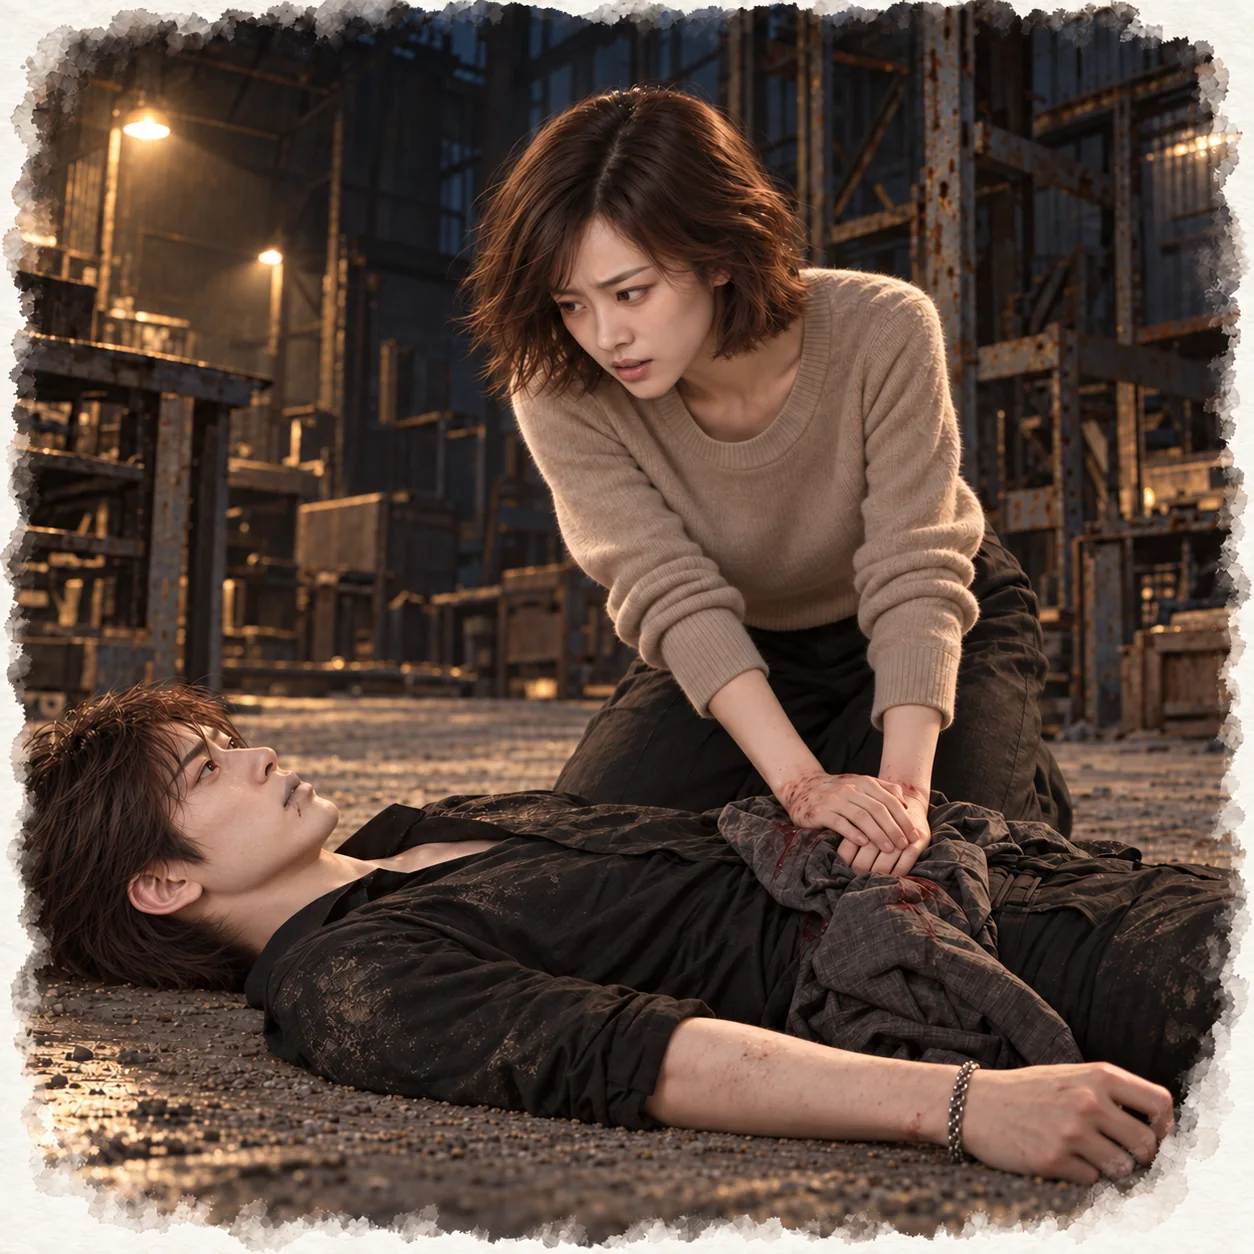
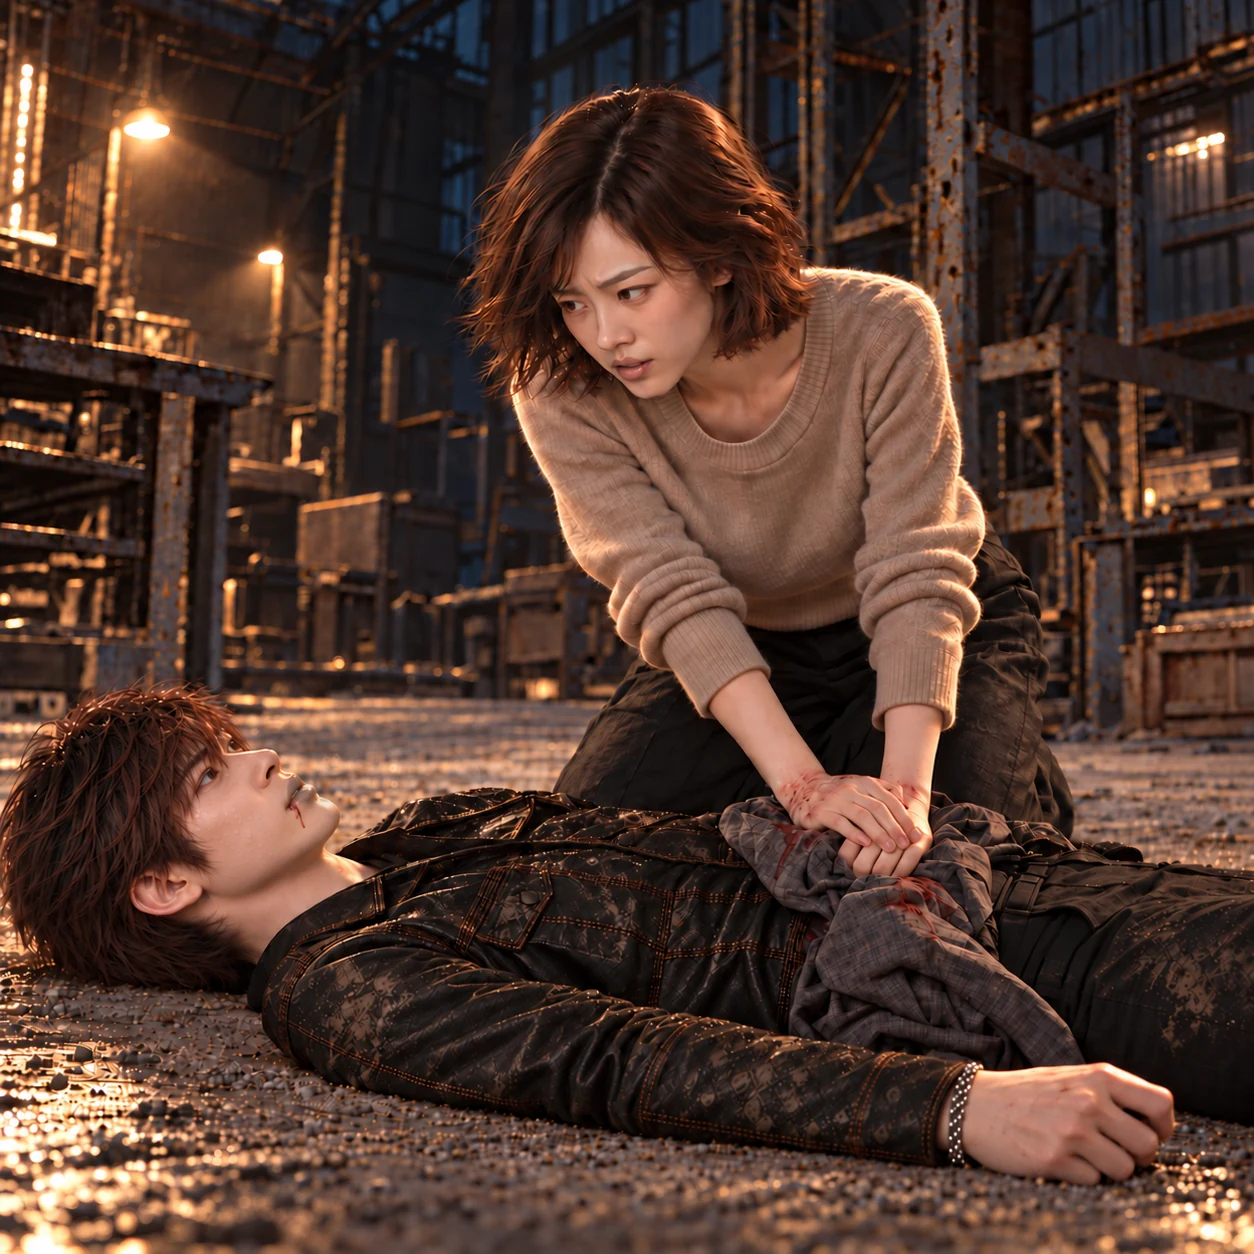
更換《沒有招牌的酒吧》第一部第十章溫寧配圖，江澈唇色調淡
Claude-Session: https://claude.ai/code/session_01GBWYe2ZCjBEsB5sU4wpFsc

diff --git a/novels/no-signboard-bar/chapter-10.html b/novels/no-signboard-bar/chapter-10.html
@@ -1,5 +1,5 @@
 <!doctype html><html lang="zh-Hant"><head><meta charset="utf-8"><meta name="viewport" content="width=device-width,initial-scale=1"><title>第十章 別自己去送死｜沒有招牌的酒吧｜Beauty</title><meta name="description" content="沒有招牌的酒吧，第一部第十章〈別自己去送死〉。溫寧、陸曜、林棠、江澈，四人第一人稱輪流敘事。"><link rel="stylesheet" href="../../assets/forest/site.css"><link rel="stylesheet" href="../../assets/forest/reader.css"><link rel="stylesheet" href="../../assets/forest/novel.css?v=reader-font1"><link rel="stylesheet" href="../../assets/forest/reader-plus.css?v=3"></head><body><header class="site-header"><a class="brand" href="../../">Beauty <span class="small-paw">✧</span></a><nav aria-label="主要導覽"><a href="../../#books">小說</a><a href="../../#xiaoruan">小軟</a><a href="../../#about">關於我</a></nav></header><div class="forest-banner"><img src="../../assets/forest/xiaoruan-hero-v2.webp" alt="小軟的童話森林" width="1672" height="941"></div><main class="reader-shell" id="main"><nav class="breadcrumb" aria-label="所在位置"><a href="../../#books">故事森林</a><span>／</span><a href="./">沒有招牌的酒吧</a><span>／ 第一部</span></nav><article class="reader-paper"><header class="reader-heading"><p class="eyebrow">沒有招牌的酒吧 · 第一部</p><h1>第十章　別自己去送死</h1><p class="reader-meta">Beauty 著 · 四人第一人稱輪流敘事</p><nav class="pov-nav" aria-label="本章視角"><a href="#pov-1">溫寧</a><a href="#pov-2">陸曜</a><a href="#pov-3">林棠</a><a href="#pov-4">江澈</a></nav><div class="reader-settings" role="group" aria-label="閱讀字級"><span>字級</span><button type="button" data-font-step="-1" aria-label="縮小文字">A−</button><button type="button" data-font-step="1" aria-label="放大文字">A＋</button><button type="button" data-font-reset>還原</button><output aria-live="polite" class="reader-font-status">預設</output></div></header><div class="reader-body"><section class="pov pov-wen" data-name="溫寧">
-<div class="pov-opening"><h2 class="pov-title" id="pov-1"><span>敘事視角</span>溫寧</h2><a class="pov-art" href="../../assets/novels/no-signboard-bar/chapter-10-wen-ning.webp?v=20261013" target="_blank" rel="noopener" aria-label="開啟溫寧插圖大圖"><img src="../../assets/novels/no-signboard-bar/chapter-10-wen-ning.webp?v=20261013" alt="河邊舊倉庫的水泥地上，江澈中槍倒地，嘴角帶血、睜著眼；溫寧跪在他身旁，雙手疊在外套上用力壓住他腰側的傷口，手上沾滿了血。" width="1254" height="1254" loading="lazy" decoding="async"><span class="pov-cap">不准閉眼睛。</span></a><div class="pov-intro"><p>傍晚五點半，江澈推門進來。</p>
+<div class="pov-opening"><h2 class="pov-title" id="pov-1"><span>敘事視角</span>溫寧</h2><a class="pov-art" href="../../assets/novels/no-signboard-bar/chapter-10-wen-ning.webp?v=20261014" target="_blank" rel="noopener" aria-label="開啟溫寧插圖大圖"><img src="../../assets/novels/no-signboard-bar/chapter-10-wen-ning.webp?v=20261014" class="soft-edge" alt="河邊舊倉庫的水泥地上，江澈中槍倒地，嘴角帶血、睜著眼；溫寧跪在他身旁，雙手疊在外套上用力壓住他腰側的傷口，手上沾滿了血。" width="1254" height="1254" loading="lazy" decoding="async"><span class="pov-cap">不准閉眼睛。</span></a><div class="pov-intro"><p>傍晚五點半，江澈推門進來。</p>
 <p>他沒有拿處方，也沒有要買藥。他走到櫃檯前面，從口袋裡拿出兩樣東西，放在我面前。</p>
 <p>一串鑰匙。上面掛著一個小小的銅牌，磨得很亮。</p></div></div>
 <p>還有一張摺成四折的紙。</p>
